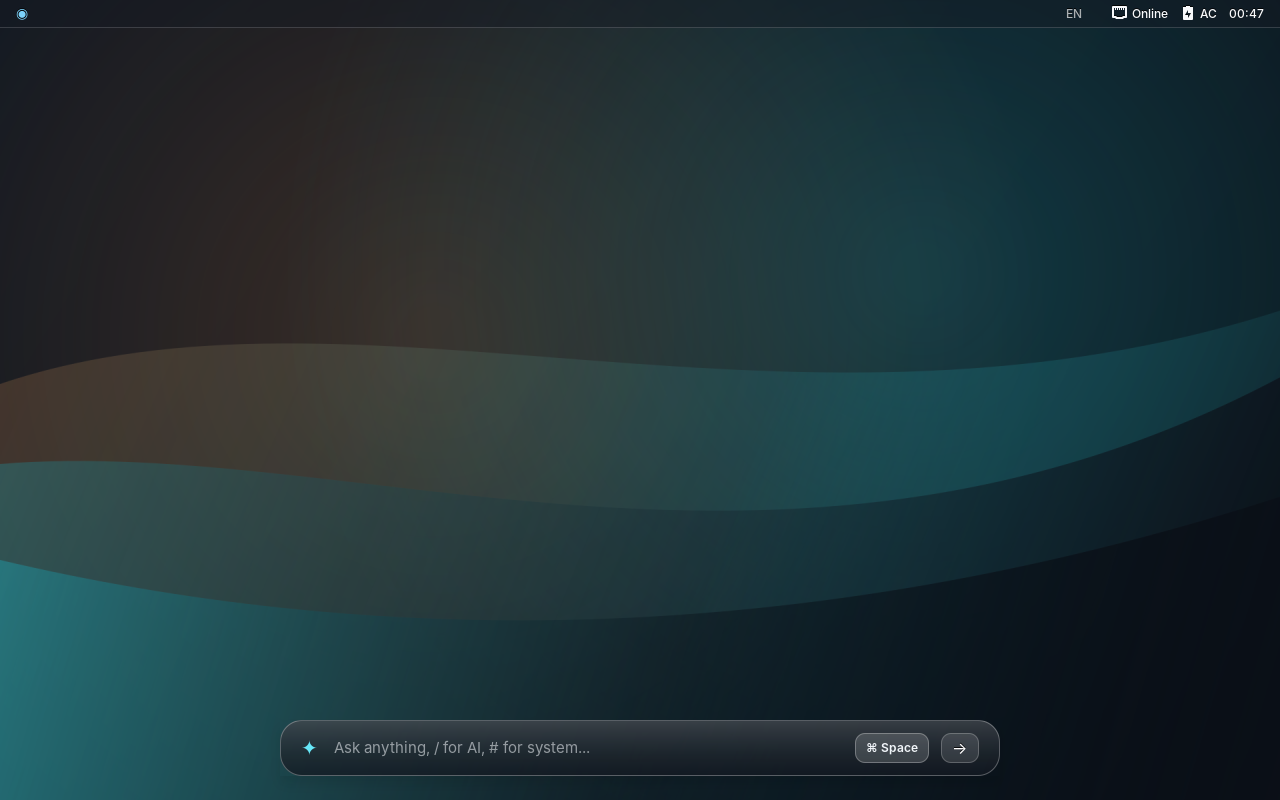
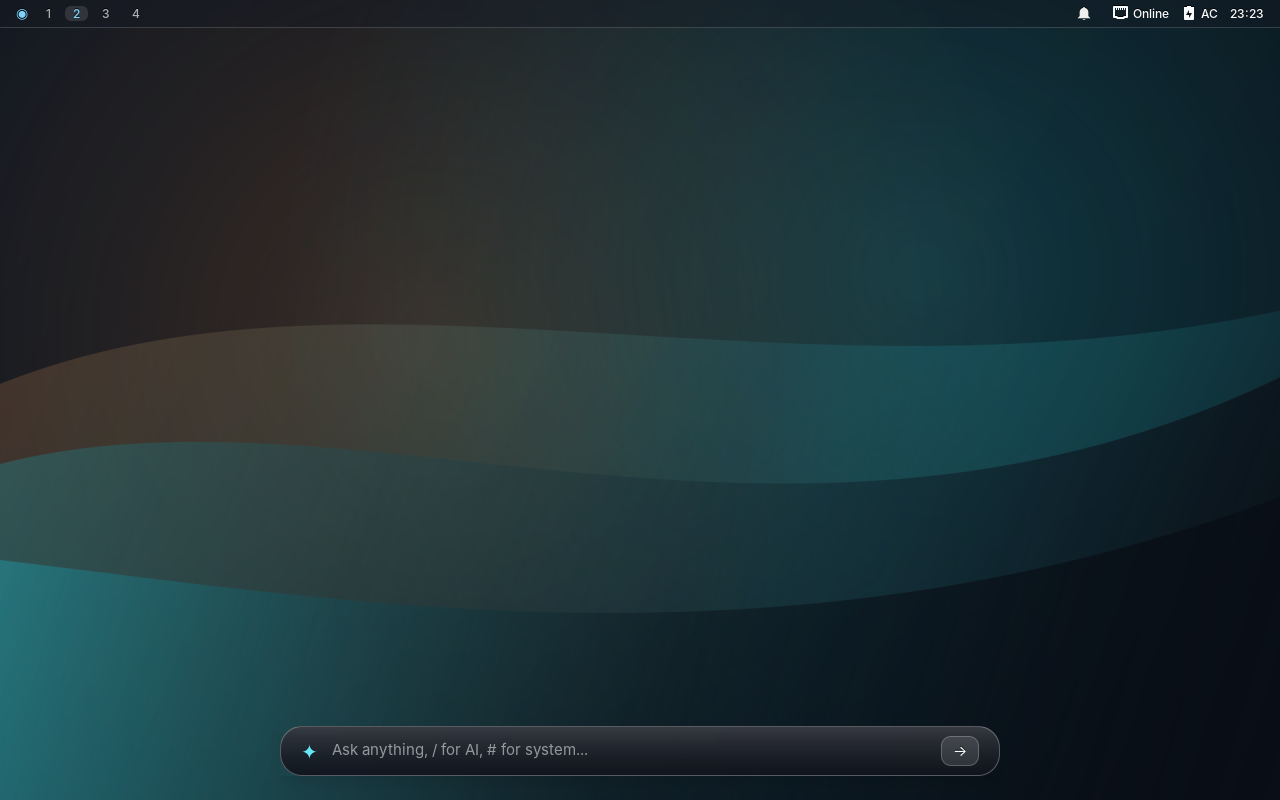
docs(readme): revamp README with real screenshots gallery, live demo GIF, and full feature guide

diff --git a/README.md b/README.md
@@ -1,141 +1,144 @@
 # AI-OS Debian
 
-[English](#english) · [Português](#portugu%C3%AAs)
+> **An AI-first minimalist desktop operating system built on Debian 13 (Trixie) Netinst** — zero bloat, a distraction-free Openbox + Nemo desktop, and a native GTK3/WebKit2 **Spotlight Command Bar** powered by an autonomous AI agent under the hood.
 
-![AI-OS Debian Desktop](docs/screenshots/desktop.png)
+[![Debian 13 Trixie](https://img.shields.io/badge/Debian-13%20Trixie-A81D33?logo=debian&logoColor=white)](https://www.debian.org/)
+[![Openbox](https://img.shields.io/badge/WM-Openbox-2A2E37)](http://openbox.org/)
+[![GTK3 + WebKit2](https://img.shields.io/badge/UI-GTK3%20%2B%20WebKit2-4A86CF)](https://gtk.org/)
+[![FastAPI](https://img.shields.io/badge/Backend-FastAPI-009688?logo=fastapi&logoColor=white)](https://fastapi.tiangolo.com/)
 
----
+![AI-OS Live Demo](docs/screenshots/demo.gif)
 
-<a id="english"></a>
-## English
-
-### Overview & Vision
-**AI-OS Debian** is a minimalist, **AI-first** operating system built on **Debian 13 (Trixie)**, designed around the **Antigravity CLI (`agy`)** as the primary way to interact with your computer. Instead of a heavy desktop environment, it pairs a lean **Openbox + GTK3 + picom** workspace with a persistent Apple Liquid Glass **Spotlight** bar at the bottom of the screen.
-
-It is built to run fast on both modern machines and older hardware/VMs (~**405 MiB** RAM at idle, ~**2.9 GB** disk footprint, **776** packages), while giving the AI agent full autonomous control (`--mode auto --dangerously-skip-permissions` with passwordless `sudo`).
-
-### Core Features
-- **Spotlight AI (`spotlight/spotlight_ui.py` + `spotlight/server.py`):**
-  - Fixed 1-line bottom-docked input bar; long prompts (`>54` chars or `Shift+Enter`) pop up an editable **draft card** above sharing the exact same `Gtk.TextBuffer`.
-  - **Continuous Chat UI (`Lazy WebKit2GTK`):** Real-time SSE streaming (`/api/ask_stream`), right-aligned cyan user bubbles & left-aligned AI bubbles (460px max height), **Stop (`■`)** button (`/api/ask_stop`), **`/new`**, **Copy**, and **Open in LiteMD** (opens the full conversation `.md`).
-  - **Persistent `Chat` Button:** Appears whenever an active conversation exists (persisted across reboots via `last_chat_id` in `~/.ai-os/config.json`) so you can resume after pressing `Esc`.
-  - **Separated Command Namespaces:**
-    - `/` for **AGY CLI**: `/usage`, `/login`, `/logout`, `/model `, `/mode `, `/models`, `/agents`, `/mcp`, `/new`, `/clear`, `/compact`, `/plan `, `/changelog`, `/help`, plus `@file` autocomplete from `~/Desktop`, `~/Documentos`, `~/Projetos`, `~/Temp`.
-    - `#` for **AI-OS System**: `#apps` (list all installed apps), `#chats`, `#audit` (AI action audit log), `#clip` (15-item clipboard history), `#screenshot`, `#displays`, `#lang ` (`pt`/`en`), `#kb ` (`pt`/`us`/`es`/`fr`/`gb`), `#update` (deterministic `apt` + repo sync), `#lock`, `#reboot`, `#poweroff`.
-- **Browser Agent (`spotlight/web_agent.py` -> `aios-web`):**
-  - Lightweight **Chromium CDP** automation (`127.0.0.1:9222` via `python3-websockets`, 0 MB idle RAM).
-  - Lets `agy` open sites, read interactive DOM elements (`[data-aios-id="N"]`), fill inputs/checkboxes/selects, click buttons, and verify results step by step (`AGENTS.md`).
-- **TopBar (`28px`) & Control Center:**
-  - `◉` / `✦ AI...` live agent busy indicator, clickable **4-Desktop switcher** (`Desktop 1..4` with `•` occupancy dots + `WindowsPopover` grouped by Desktop), horizontal scroll workspace switching, live `PT`/`EN` toggle (with centered confirmation), network/battery/clock, and low-battery alerts (`15%` / `5%` critical).
-  - **Control Popover:** Volume (`wpctl`), **Audio Output switcher** (`wpctl` sinks), Brightness (`brightnessctl` / `xrandr`), Podman container count, Wi-Fi network selector, **Bluetooth toggle & paired devices**, **Detect Displays (`xrandr --auto`)**, and Lock Screen.
-- **Desktop, Gestures & Visual Design (`Openbox` + `Nemo` + `picom`):**
-  - Unified **AI-OS-Glass** theme (`themerc`, `gtk.css`, `Papirus-Dark`, `Inter` & `JetBrains Mono` fonts, `Bibata-Modern-Classic` cursor).
-  - Dynamic Cairo wave wallpaper (`wallpaper.py`) reused on the lockscreen (`lock.sh` + `i3lock` + `xss-lock` 10-min idle lock).
-  - **3-Finger Touchpad Gestures (`gestures.py`):** 3-finger swipe left/right switches Desktops; 3-finger swipe up focuses Spotlight (`libinput-tools`).
-  - **Native Window Tiling:** `Super+Left`, `Super+Right`, `Super+Up`, `Super+Down`.
-  - **Quick Screenshot to AI:** `Print` / `Super+Shift+S` / `#screenshot` saves `~/Temp/captura.png` and auto-attaches `@Temp/captura.png ` in Spotlight.
-  - **First-Boot OOBE:** Centered welcome dialog if `agy` is not yet signed in (language selector + 1-click `/login`).
-  - **Built-in Apps & Lean Footprint:** `Chromium`, **LiteMD** (`litemd.py`), **GPicView**, `xterm`, `Nemo` (`gvfs` + `udisks2`), `lxpolkit`, `dunst`, `PipeWire` + `WirePlumber`, `Podman` rootless, `ufw`, `zram-tools` (LZ4), `earlyoom`, `99norecommends`, `01_nodoc`, `journald` `50M` cap.
-
-### Keyboard Shortcuts
-| Shortcut | Action |
-| :--- | :--- |
-| `Super+Space` / `Alt+Space` / `Ctrl+Space` | Focus Spotlight |
-| `Esc` | Clear input & close Spotlight pane |
-| `Enter` / `Shift+Enter` | Send prompt / Insert newline |
-| `Ctrl+↑` / `Ctrl+↓` | Navigate prompt history |
-| `Ctrl+H` | Open saved AI conversations |
-| `Print` / `Super+Shift+S` | Capture screen & attach `@Temp/captura.png` to Spotlight |
-| `Super+L` | Lock screen (`i3lock` with wallpaper) |
-| `Super+1..4` / `Ctrl+Alt+←/→` / `3-finger swipe` | Switch virtual Desktops (`Desktop 1..4`) |
-| `Super+←` / `Super+→` / `Super+↑` / `Super+↓` | Tile left / Tile right / Maximize / Restore |
-| `Alt+Tab` / `Alt+F4` | Switch windows / Close active window |
-
-### Installation & Configuration
-```bash
-git clone https://github.com/casousavng/aios-debian.git
-cd aios-debian
-bash install-aios.sh
-```
-Reboot after installation. On first boot, the OOBE dialog lets you choose `PT`/`EN` and sign in via `/login` (browser opens Google OAuth; paste the `4/0...` code into Spotlight and press `Enter`).
+[Português (PT-PT)](#-versão-em-português) | [English](#-english-version)
 
 ---
 
-<a id="português"></a>
-## Português
+## 🇵🇹 Versão em Português
 
-### Visão Geral & Propósito
-O **AI-OS Debian** é um sistema operativo minimalista e **AI-first** baseado em **Debian 13 (Trixie)**, pensado para usar o **Antigravity CLI (`agy`)** como interface principal do computador. Em vez de um ambiente gráfico pesado, combina uma base leve (**Openbox + GTK3 + picom**) com uma barra **Spotlight** estilo Apple Liquid Glass sempre acessível no fundo do ecrã.
+### Visão Geral
+O **AI-OS Debian** substitui o ambiente de trabalho tradicional cheio de menus por uma experiência focada em **velocidade, automação e linguagem natural**:
+- **Sem bloat**: Debian 13 Netinst com `APT::Install-Recommends "false"`, `01_nodoc`, `zram-tools` (LZ4), `earlyoom` e ~380–400 MB de RAM em idle.
+- **Spotlight AI Nativo (`Super+Espaço`)**: barra flutuante sempre acessível para abrir apps, pesquisar ficheiros em profundidade, correr comandos de sistema (`#`) e conversar em streaming com o assistente AI (`/` ou texto livre) — abstraindo o motor de agente por baixo.
+- **Barra Superior Minimalista (`AITopBar`)**: workspaces (`1–4`), janelas abertas com fecho rápido (`×`), centro de **Notificações & Automações (`DND` + `crontab`)**, e **Painel de Controlo** (Volume, Brilho, Wi-Fi, Bluetooth, Ecrãs, Fuso Horário, Energia) com abertura ao passar o rato.
 
-Foi otimizado para correr rápido tanto em máquinas atuais como em hardware antigo ou VMs (~**405 MiB** RAM em idle, ~**2,9 GB** em disco, **776** pacotes), dando ao agente autonomia total (`--mode auto --dangerously-skip-permissions` com `sudo` sem password).
+---
+
+### Galeria do Sistema
+
+| Ambiente de Trabalho & Spotlight | Saúde do SO (`#health`) |
+| :---: | :---: |
+| ![Desktop](docs/screenshots/desktop.png) | ![Spotlight Health](docs/screenshots/spotlight-health.png) |
+
+| Painel de Controlo (Hover) | Sino: Notificações & Automações |
+| :---: | :---: |
+| ![Control Popover](docs/screenshots/control-popover.png) | ![Bell Popover](docs/screenshots/bell-popover.png) |
+
+| Definições AI-OS (`#settings`) | LiteMD (Leitor & Editor Markdown) |
+| :---: | :---: |
+| ![Settings](docs/screenshots/settings.png) | ![LiteMD](docs/screenshots/litemd.png) |
+
+---
 
 ### Funcionalidades Principais
-- **Spotlight AI (`spotlight/spotlight_ui.py` + `spotlight/server.py`):**
-  - Barra fixa de 1 linha; prompts longos (`>54` chars ou `Shift+Enter`) abrem um **card editável** acima com o mesmo `Gtk.TextBuffer`.
-  - **Chat Contínuo (`WebKit2GTK` lazy):** Streaming SSE em tempo real (`/api/ask_stream`), balões do utilizador à direita (ciano) e da IA à esquerda (slate, até `460px`), botão **Stop (`■`)** (`/api/ask_stop`), **`/new`**, **Copiar** e **Abrir no LiteMD** (abre o `.md` completo da conversa).
-  - **Botão `Chat` Persistente:** Reabre a conversa ativa mesmo após `Esc` ou reboot (`last_chat_id` em `~/.ai-os/config.json`).
-  - **Comandos separados por prefixo:**
-    - `/` para **AGY CLI**: `/usage`, `/login`, `/logout`, `/model `, `/mode `, `/models`, `/agents`, `/mcp`, `/new`, `/clear`, `/compact`, `/plan `, `/changelog`, `/help`, além de autocomplete `@ficheiro`.
-    - `#` para **Sistema AI-OS**: `#apps` (listar todas as aplicações instaladas), `#chats`, `#audit` (registo de auditoria da IA), `#clip` (histórico de clipboard com 15 entradas), `#screenshot`, `#displays`, `#lang ` (`pt`/`en`), `#kb ` (`pt`/`us`/`es`/`fr`/`gb`), `#update` (atualização determinística `apt` + repo), `#lock`, `#reboot`, `#poweroff`.
-- **Browser Agent (`spotlight/web_agent.py` -> `aios-web`):**
-  - Automação leve via **Chromium CDP** (`127.0.0.1:9222` com `python3-websockets`, `0 MB` RAM em idle).
-  - Permite ao `agy` abrir sites, ler o DOM (`[data-aios-id="N"]`), preencher campos/checkboxes/selects, clicar em botões e confirmar resultados (`AGENTS.md`).
-- **Barra de Topo (`28px`) & Centro de Controlo:**
-  - Indicador `◉` / `✦ AI...`, seletor de **4 Desktops** (`Desktop 1..4` com `•` de ocupação + `WindowsPopover` agrupado por Desktop), scroll horizontal na barra/desktop, toggle `PT`/`EN`, rede/bateria/hora e alertas de bateria fraca (`15%` / `5%` crítico).
-  - **Popover de Controlo:** Volume (`wpctl`), **Seletor de Saída de Áudio**, Brilho (`brightnessctl`/`xrandr`), contentores Podman, Wi-Fi, **Bluetooth toggle & dispositivos emparelhados**, **Detetar Ecrãs (`xrandr --auto`)** e Bloquear Ecrã.
-- **Desktop, Gestos & Grafismo (`Openbox` + `Nemo` + `picom`):**
-  - Tema unificado **AI-OS-Glass** (`themerc`, `gtk.css`, `Papirus-Dark`, fontes `Inter` e `JetBrains Mono`, cursor `Bibata-Modern-Classic`).
-  - Wallpaper dinâmico em Cairo (`wallpaper.py`) reutilizado no `i3lock` (`lock.sh` + `xss-lock`).
-  - **Gestos 3 Dedos (`gestures.py`):** 3 dedos esquerda/direita troca de Desktop; 3 dedos cima foca o Spotlight.
-  - **Window Tiling (`Super+Setas`):** metade esquerda/direita, maximizar e restaurar.
-  - **Captura Rápida (`Print` / `Super+Shift+S` / `#screenshot`):** grava `~/Temp/captura.png` e anexa `@Temp/captura.png ` no Spotlight.
-  - **OOBE 1.º Arranque:** popup centrado para escolher `PT`/`EN` e fazer `/login` caso o `agy` ainda não esteja autenticado.
-  - **Base Enxuta:** `Chromium`, `LiteMD`, `GPicView`, `xterm`, `PCManFM` (`gvfs` + `udisks2`), `lxpolkit`, `dunst`, `PipeWire` + `WirePlumber`, `Podman`, `ufw`, `zram-tools`, `earlyoom`, `99norecommends`, `01_nodoc`, `journald` (`50M`).
+
+- **Spotlight Multimodal & Streaming**
+  - **Chat sem bordas pesadas**: respostas em largura total, botão `Copiar` por resposta e por bloco de código, links externos abrem no Chromium, `A-`/`A+` (8–18px) sincronizados ao vivo com as Definições, botão `Novo chat` e `Abrir no LiteMD`.
+  - **Anexos fáceis**: autocomplete `@ficheiros` (BFS recursivo), **Drag & Drop** de ficheiros do ambiente de trabalho (`Gdk.DragAction.COPY`) e **`Ctrl+V`** de imagens do clipboard.
+  - **Guardrail de Segurança**: pedidos destrutivos (`rm -rf`, formatação, remoção de pacotes, `reboot`/`poweroff`) exigem confirmação explícita na UI e na API (`/api/ask`, `/api/ask_stream`).
+- **Automações Nativas (`crontab`) & Lembretes (`Zero Polling`)**
+  - Lembretes únicos (`#remind 10m pausa`) via `threading.Timer` em memória.
+  - Automações recorrentes criadas em linguagem natural no chat (*"todos os dias às 09:00 verifica X"*) via `crontab` nativo (`/api/crons` + `run_cron.sh`), com **Pausar/Retomar (`#PAUSED`)**, tradução legível (`Todos os dias às 09:00`) e notificações fixas até fechar (`dunst`).
+- **Produtividade Diária (`#`)**
+  - `#health` — Estado de `server.py`, `nemo-desktop`, `dunst`, `picom`, `cron`, disco e RAM.
+  - `#ports` — Lista portas TCP abertas e containers **Podman** com paragem rápida.
+  - `#proj` — Lista repositórios em `~/Projetos` (com branch Git) e abre Terminal lá dentro.
+  - `#grep <termo>` — Pesquisa texto dentro de `~/Documentos`, `~/Desktop` e `~/Projetos`.
+  - `#clip` — Histórico de clipboard com **Snippets fixados (`[Pin]`)**.
+  - `#keys` — Folha rápida de atalhos do sistema.
+  - `#displays` — Seletor gráfico de resolução `xrandr`.
+  - `#audit` / `#notif` / `#settings` / `#update`.
+- **LiteMD (`litemd.py`)**
+  - Leitor e editor Markdown/Texto predefinido (`text/markdown`, `text/plain`) com alternância `Editar`/`Ver` (`Ctrl+E`) e gravação (`Ctrl+S`).
+- **Browser Agent (`aios-web`)**
+  - Automação real do Chromium via CDP (`127.0.0.1:9222`): `open`, `dom`, `wait`, `fill`, `click`, `press`, `scroll`, `tabs`, `screenshot`.
+
+---
 
 ### Atalhos de Teclado
-| Atalho | Ação |
-| :--- | :--- |
-| `Super+Espaço` / `Alt+Espaço` / `Ctrl+Espaço` | Focar Spotlight |
-| `Esc` | Limpar input e fechar painel |
-| `Enter` / `Shift+Enter` | Enviar pedido / Quebra de linha |
-| `Ctrl+↑` / `Ctrl+↓` | Histórico de pedidos |
-| `Ctrl+H` | Lista de conversas guardadas |
-| `Print` / `Super+Shift+S` | Capturar ecrã e anexar `@Temp/captura.png` no Spotlight |
-| `Super+L` | Bloquear ecrã (`i3lock` com wallpaper) |
-| `Super+1..4` / `Ctrl+Alt+←/→` / `3 dedos` | Alternar Desktops (`Desktop 1..4`) |
-| `Super+←` / `Super+→` / `Super+↑` / `Super+↓` | Metade esquerda / Metade direita / Maximizar / Restaurar |
-| `Alt+Tab` / `Alt+F4` | Alternar janelas / Fechar janela ativa |
 
-### Instalação & Estrutura
+| Atalho | Ação |
+|---|---|
+| `Super+Espaço` / `Alt+Espaço` | Focar Spotlight |
+| `Super+T` | Abrir Terminal (`xterm`) |
+| `Super+L` | Bloquear ecrã (`i3lock`) |
+| `Super+1..4` | Mudar de Workspace |
+| `Super+Shift+1..4` | Mover janela para Workspace |
+| `Super+← / → / ↑ / ↓` | Encaixar / Maximizar janela |
+| `Alt+Arrastar` / `Alt+F4` | Mover / Fechar qualquer janela |
+| `Print` / `Super+Shift+S` | Captura de ecrã anexada ao Spotlight |
+| `Ctrl+H` / `Ctrl+V` | Histórico de chats / Colar imagem |
+
+---
+
+### Arquitetura & Ficheiros
+
+```text
+├── build-iso.sh             # Gera ISO Debian bootável (live-build / preseed)
+├── preseed.cfg              # Instalação autónoma Debian Netinst
+├── install-aios.sh          # Provisionamento completo do sistema
+├── AGENTS.md                # Constituição e ferramentas do agente AI
+├── config/
+│   ├── openbox/             # autostart, rc.xml (keybinds & margins), themerc
+│   ├── dunstrc              # Notificações persistentes (timeout=0 critical)
+│   ├── picom.conf           # Compositor XRender leve
+│   ├── litemd.desktop       # Associação MIME para Markdown & Texto
+│   ├── aios-cdp             # Flags Chromium CDP (127.0.0.1:9222)
+│   └── 01_nodoc, 99norecommends
+├── spotlight/
+│   ├── spotlight_ui.py      # TopBar, Popovers, Settings, Spotlight GTK3+WebKit2
+│   ├── server.py            # API FastAPI (127.0.0.1:8765), streaming, crons, ports
+│   ├── i18n.py              # Localização PT-PT/EN, guardrails & human_cron()
+│   ├── litemd.py            # Leitor & Editor Markdown GTK3+WebKit2
+│   ├── web_agent.py         # CLI aios-web via Chromium CDP
+│   ├── wallpaper.py         # Wallpaper dinâmico Cairo + feh + gsettings
+│   ├── gestures.py          # Gestos touchpad (libinput)
+│   ├── run_cron.sh          # Executor base64 de automações crontab
+│   ├── lock.sh, screenshot.sh, update.sh
+└── tests/
+    └── test_smoke.py        # Testes automáticos (py_compile, bash -n, XML, i18n)
+```
+
+---
+
+### Instalação & Testes
+
+```bash
+# Provisionar numa máquina Debian 12/13 limpa:
+git clone https://github.com/casousavng/aios-debian.git
+cd aios-debian && bash install-aios.sh
+
+# Correr suite de validação local:
+python3 -m unittest discover -s tests -v
+```
+
+---
+
+## 🇬🇧 English Version
+
+### Overview
+**AI-OS Debian** replaces heavy desktop environments with a fast, distraction-free workspace centered around a native GTK3/WebKit2 **Spotlight Command Bar** and an autonomous AI backend:
+
+- **Lean Footprint**: Debian 13 Netinst with `APT::Install-Recommends "false"`, `zram-tools`, `earlyoom`, `Openbox`, `Nemo` desktop icons, and `picom` (~400 MB idle RAM).
+- **Native Spotlight (`Super+Space`)**: Launch apps, search files recursively, run system tools (`#`), and stream AI tasks seamlessly.
+- **Hover TopBar (`AITopBar`)**: Workspaces (`1–4`), open windows switcher with quick close (`×`), **Notifications & Automations Bell** (`DND` mode + `crontab` schedules), and **Control Center** (Volume, Brightness, Wi-Fi, Bluetooth, Displays, Timezone, Power).
+- **Built-in Productivity**: `#health`, `#ports` (TCP + Podman), `#proj` (`~/Projetos`), `#grep`, `#clip` (pinned snippets), `#keys`, `#displays`, and **LiteMD** (`litemd.py`) as the default Markdown & text editor.
+
+### Quick Start & Testing
+
 ```bash
 git clone https://github.com/casousavng/aios-debian.git
-cd aios-debian
-bash install-aios.sh
-```
-```text
-aios-debian/
-├── AGENTS.md                 # Regras de governação do agente + aios-web
-├── preseed.cfg               # Instalação automática Debian 13 ARM64
-├── build-iso.sh              # Gera ISO instalável automática com preseed
-├── install-aios.sh           # Provisionamento idempotente sobre Debian
-├── docs/screenshots/         # Capturas de ecrã
-├── config/
-│   ├── 01_nodoc              # Exclui docs/manpages/locales fora PT/EN
-│   ├── 99norecommends        # APT sem recomendações/sugestões
-│   ├── dunstrc               # Notificações AI-OS
-│   ├── gtk.css               # Tema GTK3 escuro unificado
-│   ├── picom.conf            # Compositor
-│   └── openbox/              # autostart, rc.xml, themerc
-└── spotlight/
-    ├── server.py             # Backend FastAPI + SSE + audit + áudio/BT
-    ├── spotlight_ui.py       # TopBar + Spotlight + Chat contínuo
-    ├── web_agent.py          # Browser Agent Chromium CDP (aios-web)
-    ├── gestures.py           # Gestos 3 dedos (libinput-tools)
-    ├── i18n.py               # Localização PT-PT / EN + config persistente
-    ├── wallpaper.py          # Wallpaper dinâmico Cairo
-    ├── litemd.py             # Leitor Markdown nativo
-    ├── screenshot.sh         # Captura rápida -> @Temp/captura.png
-    ├── lock.sh               # Bloqueio i3lock com wallpaper
-    ├── update.sh             # Atualização determinística (#update)
-    └── index.html            # Fallback web
+cd aios-debian && bash install-aios.sh
+
+# Run smoke tests:
+python3 -m unittest discover -s tests -v
 ```
